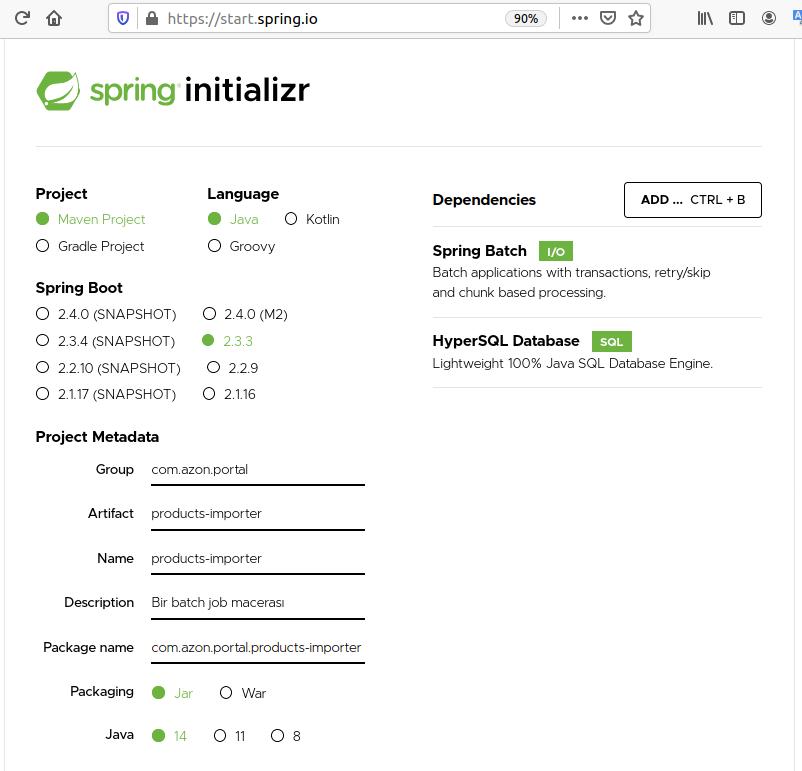
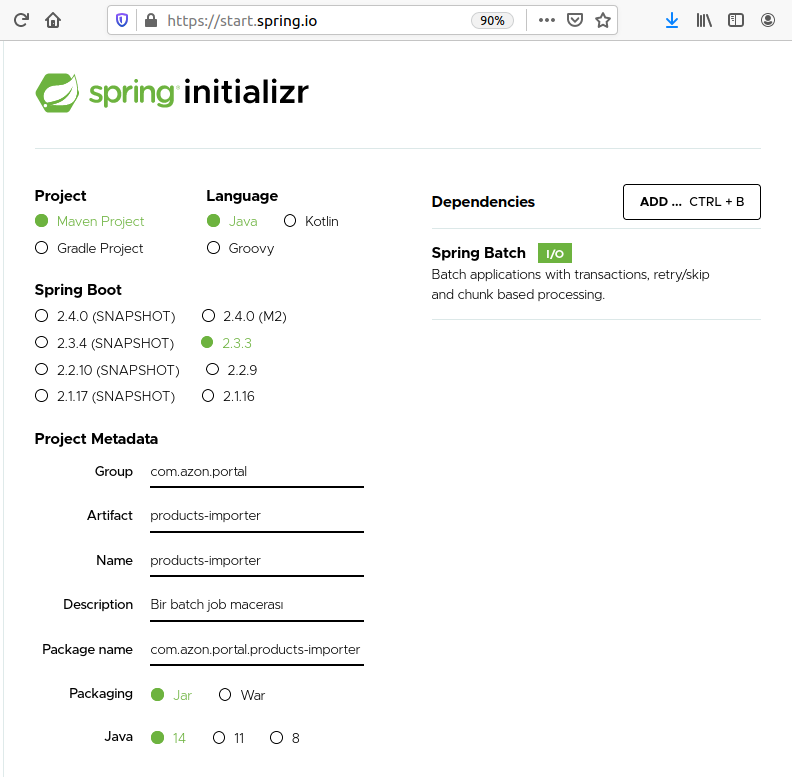
Konu anlatımı güncellendi

diff --git a/No 30 - Batch Job with Spring/README.md b/No 30 - Batch Job with Spring/README.md
@@ -1,15 +1,54 @@
 # CSV İçeriğini Veritabanına Alan Bir İşi Spring ile Geliştirmek
 
-CSV gibi içerikler ile veri transferi halen daha popülerliğini koruyor. Bir sistemin ürettiği çıktının CSV formatında başka bir sisteme alınmasından bahsediyorum. En bilinen süreçlerden birisi CSV içeriğinin alınması, belki özel işlemlerden de geçirilerek bir veritabanına aktarılması. Benim merak ettiğim bu tip bir yığın veri işini Spring ile nasıl kolaylaştırdıkları. Sanırım 27 numaralı örneğin etkisinde kaldım. Spring'ten faydalanıp Java ile bir şeyler yapmak hoşuma gitti. Amacım basit bir CSV içeriğini SQLite veritabanındaki bir tabloya aktarmak.
+Text tabanlı dosyalardan farklı ortamlara veri transferleri halen daha popüler. Bir zamanlar bunun için SQL Server Integration Services(SSIS) paketleri ile epey haşırneşir olmuştum. En sık uyguladığımız yöntemlerin başında belli sistemlerin ürettiği CSV içeriklerinin çeşitli kurallardan geçerek veritabanına aktarılmasıydı. Benim merak ettiğim bu tip bir yığın veri işini Spring ile nasıl kolaylaştırdıkları. Sanırım 27 numaralı örneğin etkisinde kaldım :) Spring'ten faydalanıp Java ile bir şeyler yapmak hoşuma gitti. Bu çalışmadaki amacım ise en az iki adet CSV içeriğini alıp arka arkaya birleştirmek ve çıktısını tek bir JSON dosyasında sunmak. Temel prensipleri ve iş akışının temellerini anlamak niyetindeyim. Hatta işi planlı hale getirmek ve örneğin söz konusu akışın 5 dakikada bir çalıştırılmasını da sağlamak istiyorum.
 
 ## Hazırlıklar
 
-Heimdal _(Ubuntu 20.04)_ üstünde JDK, Maven gibi aparatlar zaten yüklü. Kod editörü olarak da Visual Studio Code'u kullanıyorum. Spring projesinin ilk açılışı için elbette [şu](https://start.spring.io/) adrese uğramak gerekiyor. Batch işlemleri için Spring Batch ve SLQ tarafı içinse HyperSQL Database isimli paketler kullanılacak.
+Heimdal _(Ubuntu 20.04)_ üstünde JDK, Maven gibi aparatlarım zaten yüklü. Kod editörü olarak da Visual Studio Code'u kullanıyorum. Spring projesinin ilk açılışı için elbette [şu](https://start.spring.io/) adrese uğramak gerekiyor. Batch işlemleri için Spring Batch paketini kullanmak gerektiğinde bunu bir Dependency olarak eklemeliyiz. _(CSV dosya örnekleri src/main/resources altında yer alıyor. Basit olması açısından ürün adı, birim fiyatı ve gönderilen adet bilgilerinin tutulduğu bir içerik söz konusu)_
 
 ![Screenshot_01.png](./assets/Screenshot_01.png)
 
+Gelelim eklediklerimize.
+
+```bash
+cd products-importer
+
+# CSV üzerindeki bir satırı temsil edecek bir POJO sınıfı tasarlıyoruz
+touch src/main/java/com/azon/portal/productsimporter/Product.java
+
+# CSV'yi okuduğumuz sırada satır bazında işlem yapmak istersek araya girebiliriz.
+# Aşağıdaki dosya bunu anlamam için var.
+touch src/main/java/com/azon/portal/productsimporter/ProductItemConvertor.java
+
+# POJO hazır. Transform sırasında devreye giren sınıf kodu da...
+# Şimdi Batch akışının tasarlandığı kodlarımıza geçelim.
+touch src/main/java/com/azon/portal/productsimporter/BatchConfiguration.java
+
+# Aşağıdaki sınıfı ise batch'in çalışması sırasındaki olayları takip etmek için kullanabiliriz.
+touch src/main/java/com/azon/portal/productsimporter/JobListener.java
+```
+
 ## Çalışma Zamanı
+
+Uygulamayı Maven veya Gradle üzerinden çalıştırmamız mümkün. Ben maven'ı tercih ettim.
+
+```bash
+# Uygulamayı maven aracı ile doğrudan çalıştırmak istersek aşağıdaki terminal komutunu kullanabiliriz.
+./mvnw spring-boot:run
+
+# Build edip Java ile çalıştırmak istersek de şöyle yapmamız yeterli.
+./mvnw clean package
+java -jar target/products-importer-0.0.1-SNAPSHOT.jar
+```
+
+_Dikkat edileceği üzere output.json içeriği csv dosyalarından birleştirilmiştir ve söz konusu iş beş dakikada bir tekrar çalışmaktadır_
+
+![Screenshot_02.png](./assets/Screenshot_02.png)
 
 ## Bomba Sorular
 
+- Bir Batch işi içerisinde birden fazla adım _(step)_ olabilir mi?
+
 ## Ödevler
+
+- CSV dosyalarını birleştirip yine JSON formatında ama bu kez MongoDB'ye kaydetme işlemlerini gerçekleştirebilir misiniz?
